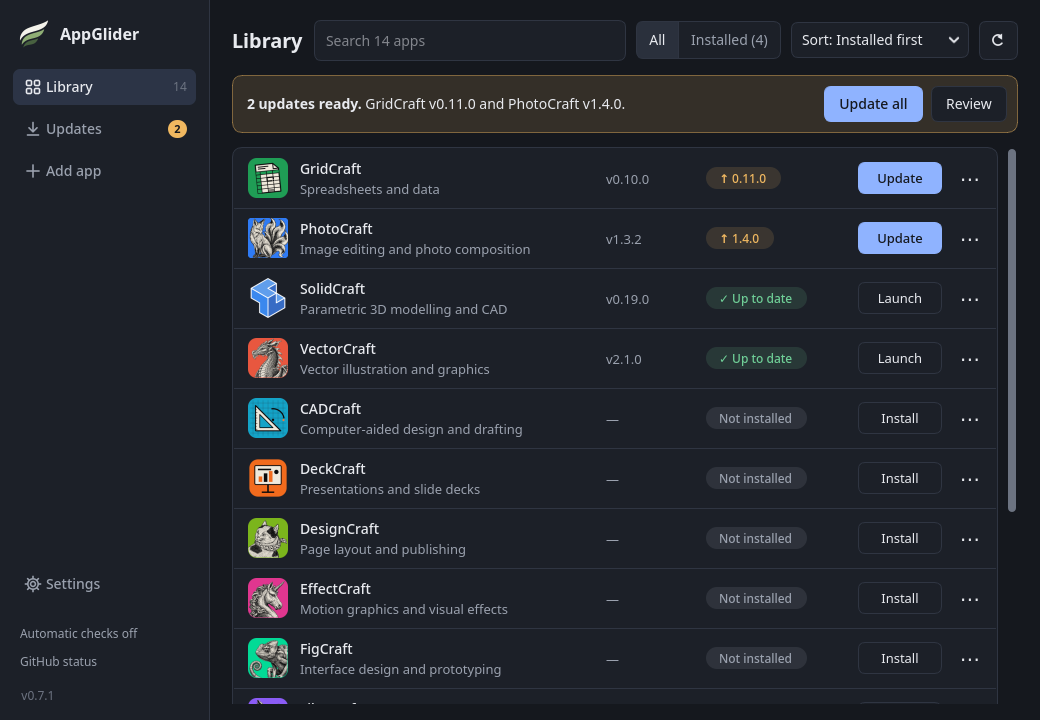
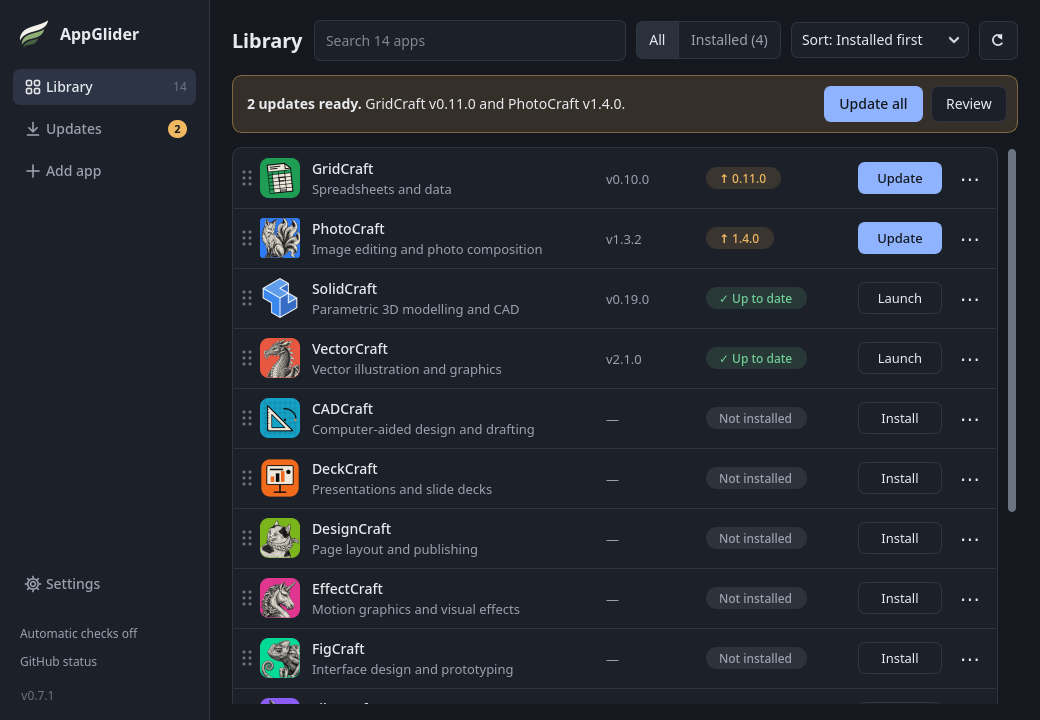
feat(ui): add a drag handle to library rows

diff --git a/src/appglider/window.py b/src/appglider/window.py
@@ -10,6 +10,7 @@ from threading import Event
 
 from PySide6.QtCore import (
     QByteArray,
+    QEvent,
     QMimeData,
     QPoint,
     QPointF,
@@ -39,6 +40,7 @@ from PySide6.QtGui import (
     QMouseEvent,
     QPainter,
     QPainterPath,
+    QPaintEvent,
     QPalette,
     QPen,
     QPixmap,
@@ -275,6 +277,67 @@ class StatusMessage(QLabel):
         self.changed.emit()
 
 
+class DragHandle(QWidget):
+    """Six dots at the start of a row that show it can be dragged, and start the drag."""
+
+    colours = ("#6c7381", "#9aa1ae")  # idle and hover; apply_theme sets them from the tokens
+
+    def __init__(self, row: "AppRow") -> None:
+        super().__init__()
+        self.row = row
+        self.press_pos: QPoint | None = None
+        self.setObjectName("dragHandle")
+        self.setFixedSize(14, 28)
+        self.setAttribute(Qt.WidgetAttribute.WA_Hover)
+        self.setCursor(Qt.CursorShape.OpenHandCursor)
+        self.setToolTip("Drag to reorder")
+        policy = self.sizePolicy()
+        policy.setRetainSizeWhenHidden(True)  # rows keep their alignment while reordering is off
+        self.setSizePolicy(policy)
+
+    def paintEvent(self, event: QPaintEvent) -> None:
+        painter = QPainter(self)
+        painter.setRenderHint(QPainter.RenderHint.Antialiasing)
+        painter.setPen(Qt.PenStyle.NoPen)
+        hot = self.underMouse() or self.press_pos is not None
+        painter.setBrush(QColor(self.colours[1] if hot else self.colours[0]))
+        for x in (4.0, 10.0):
+            for y in (8.0, 14.0, 20.0):
+                painter.drawEllipse(QPointF(x, y), 1.6, 1.6)
+
+    def event(self, event: QEvent) -> bool:
+        if event.type() in (QEvent.Type.HoverEnter, QEvent.Type.HoverLeave):
+            self.update()
+        return super().event(event)
+
+    def mousePressEvent(self, event: QMouseEvent) -> None:
+        if event.button() == Qt.MouseButton.LeftButton:
+            self.press_pos = event.position().toPoint()
+            self.setCursor(Qt.CursorShape.ClosedHandCursor)
+            event.accept()
+        else:
+            super().mousePressEvent(event)
+
+    def mouseMoveEvent(self, event: QMouseEvent) -> None:
+        if (
+            self.press_pos is not None
+            and self.row.draggable
+            and event.buttons() & Qt.MouseButton.LeftButton
+            and (event.position().toPoint() - self.press_pos).manhattanLength()
+            >= QApplication.startDragDistance()
+        ):
+            hot_spot = self.mapTo(self.row, self.press_pos)
+            self.press_pos = None
+            self.setCursor(Qt.CursorShape.OpenHandCursor)
+            self.row.start_drag(hot_spot)
+
+    def mouseReleaseEvent(self, event: QMouseEvent) -> None:
+        # Releasing on the handle never opens the app page.
+        self.press_pos = None
+        self.setCursor(Qt.CursorShape.OpenHandCursor)
+        event.accept()
+
+
 class AppRow(QFrame):
     details_requested = Signal(str)
     launch_requested = Signal(str)
@@ -294,7 +357,6 @@ class AppRow(QFrame):
         self.installed: Installed | None = None
         self.build_required = False
         self.pinned = False
-        self.draggable = False
         self.mode = "install"
         self.press_pos: QPoint | None = None
         self.setObjectName("appRow")
@@ -304,9 +366,13 @@ class AppRow(QFrame):
         outer.setContentsMargins(0, 0, 0, 0)
         outer.setSpacing(0)
         content = QHBoxLayout()
-        content.setContentsMargins(14, 0, 10, 0)
+        content.setContentsMargins(6, 0, 10, 0)
         content.setSpacing(12)
         outer.addLayout(content, stretch=1)
+        self.handle = DragHandle(self)
+        self.handle.hide()
+        content.addWidget(self.handle)
+        content.addSpacing(-6)
         self.divider = QFrame()
         self.divider.setObjectName("rowDivider")
         self.divider.setFixedHeight(1)
@@ -524,17 +590,13 @@ class AppRow(QFrame):
         else:
             super().mousePressEvent(event)
 
-    def mouseMoveEvent(self, event: QMouseEvent) -> None:
-        if (
-            self.press_pos is not None
-            and self.draggable
-            and event.buttons() & Qt.MouseButton.LeftButton
-            and (event.position().toPoint() - self.press_pos).manhattanLength()
-            >= QApplication.startDragDistance()
-        ):
-            self.start_drag()
-        else:
-            super().mouseMoveEvent(event)
+    @property
+    def draggable(self) -> bool:
+        return not self.handle.isHidden()
+
+    @draggable.setter
+    def draggable(self, value: bool) -> None:
+        self.handle.setVisible(value)
 
     def mouseReleaseEvent(self, event: QMouseEvent) -> None:
         pressed = self.press_pos is not None
@@ -548,8 +610,7 @@ class AppRow(QFrame):
         else:
             super().mouseReleaseEvent(event)
 
-    def start_drag(self) -> None:
-        hot_spot = self.press_pos or QPoint(0, 0)
+    def start_drag(self, hot_spot: QPoint) -> None:
         self.press_pos = None
         mime = QMimeData()
         mime.setData(ORDER_MIME, QByteArray(self.app.id.encode()))
@@ -2132,6 +2193,9 @@ class LauncherWindow(QMainWindow):
         ok, warn, danger = tokens["ok"], tokens["warn"], tokens["danger"]
         raised, faint = tokens["raised"], tokens["faint"]
         surface2, held = tokens["surface2"], tokens["held"]
+        DragHandle.colours = (faint, muted)
+        for row in self.cards.values():
+            row.handle.update()
         swatches = "\n".join(
             f'QPushButton#swatch[accent="{name}"] {{ background: {pair[0] if dark else pair[1]}; }}'
             for name, pair in ACCENTS.items()

diff --git a/tests/test_gui.py b/tests/test_gui.py
@@ -20,13 +20,22 @@ from PySide6.QtCore import (
     QCoreApplication,
     QEvent,
     QMimeData,
+    QPoint,
     QPointF,
     QRect,
     QSettings,
     Qt,
     QTimer,
 )
-from PySide6.QtGui import QCloseEvent, QDragMoveEvent, QDropEvent, QImage, QPalette, QPixmap
+from PySide6.QtGui import (
+    QCloseEvent,
+    QDragMoveEvent,
+    QDropEvent,
+    QImage,
+    QMouseEvent,
+    QPalette,
+    QPixmap,
+)
 from PySide6.QtTest import QTest
 from PySide6.QtWidgets import (
     QApplication,
@@ -541,6 +550,47 @@ class LibraryTests(unittest.TestCase):
         app_list.dropEvent(top)
         self.assertEqual(self.shown()[:2], [names[0], names[3]])
         self.assertTrue(keep.hasFormat(ORDER_MIME) and keep2.hasFormat(ORDER_MIME))
+
+    def test_drag_handle_shows_when_reordering_works_and_only_it_starts_a_drag(self) -> None:
+        window = self.window
+        self.qt.processEvents()
+        row = window.app_list.rows[1]
+        handle = row.handle
+        self.assertTrue(handle.isVisibleTo(row))
+        self.assertEqual(handle.toolTip(), "Drag to reorder")
+        icon_x = row.icon.x()
+        window.search.setText(row.app.name)
+        self.qt.processEvents()
+        self.assertTrue(handle.isHidden())
+        self.assertEqual(row.icon.x(), icon_x)  # the hidden handle keeps its space
+        window.search.clear()
+        self.qt.processEvents()
+        self.assertTrue(handle.isVisibleTo(row))
+        start = QPoint(7, 14)
+        with (
+            patch.object(row, "start_drag") as drag,
+            patch.object(window, "open_app") as opened,
+        ):
+            QTest.mousePress(handle, Qt.MouseButton.LeftButton, pos=start)
+            QTest.mouseRelease(handle, Qt.MouseButton.LeftButton, pos=start)
+            opened.assert_not_called()  # a click on the handle does not open the app
+            QTest.mousePress(handle, Qt.MouseButton.LeftButton, pos=start)
+            moved = QMouseEvent(
+                QEvent.Type.MouseMove,
+                QPointF(start + QPoint(0, QApplication.startDragDistance() + 2)),
+                QPointF(handle.mapToGlobal(start)),
+                Qt.MouseButton.NoButton,
+                Qt.MouseButton.LeftButton,
+                Qt.KeyboardModifier.NoModifier,
+            )
+            handle.mouseMoveEvent(moved)
+            drag.assert_called_once_with(handle.mapTo(row, start))
+            # Dragging on the rest of the row no longer starts a drag.
+            drag.reset_mock()
+            body = QPoint(row.width() // 2, row.height() // 2)
+            QTest.mousePress(row, Qt.MouseButton.LeftButton, pos=body)
+            QTest.mouseMove(row, body + QPoint(0, 30))
+            drag.assert_not_called()
 
     def test_reordering_is_disabled_unless_the_whole_library_is_shown(self) -> None:
         window = self.window

diff --git a/docs/usage.md b/docs/usage.md
@@ -74,7 +74,7 @@ page.
 installed apps first, apps with updates first, the order you added them, or **Custom
 order**. **⋯ → Pin to top** puts an app at the front whatever the sort (it gets a gold ★
 beside its name), and **Unpin** puts it back. To make your own order, drag a row up or down
-by its body; a line shows where it will land. Dragging switches **Sort** to **Custom order**
+by the dotted handle at its left edge; a line shows where it will land. Dragging switches **Sort** to **Custom order**
 and remembers it. **⋯ → Move up** and **Move down** do the same without a mouse. Reordering
 works on the Library page with **All** selected and an empty search, and pinned apps always
 stay above the others. The tray menu's list of installed apps follows the same order.

diff --git a/docs/design.md b/docs/design.md
@@ -60,7 +60,9 @@ Minimum window size 860 × 560. Nothing may require horizontal scrolling at that
 
 ## Rows
 
-A row is 60 px tall: icon (40 px, 9 px radius), name in semibold with a gold ★ when pinned
+A row is 60 px tall: a drag handle (six dots in `faint`, `muted` on hover, open-hand
+cursor, "Drag to reorder" tooltip; hidden but still taking its space whenever reordering is
+off, and the only place a drag starts), icon (40 px, 9 px radius), name in semibold with a gold ★ when pinned
 and a one-line muted subtitle (the description, else `owner/repo`), installed version in
 tabular figures, one status chip, one primary button (84 px wide) and a ⋯ menu.
 
